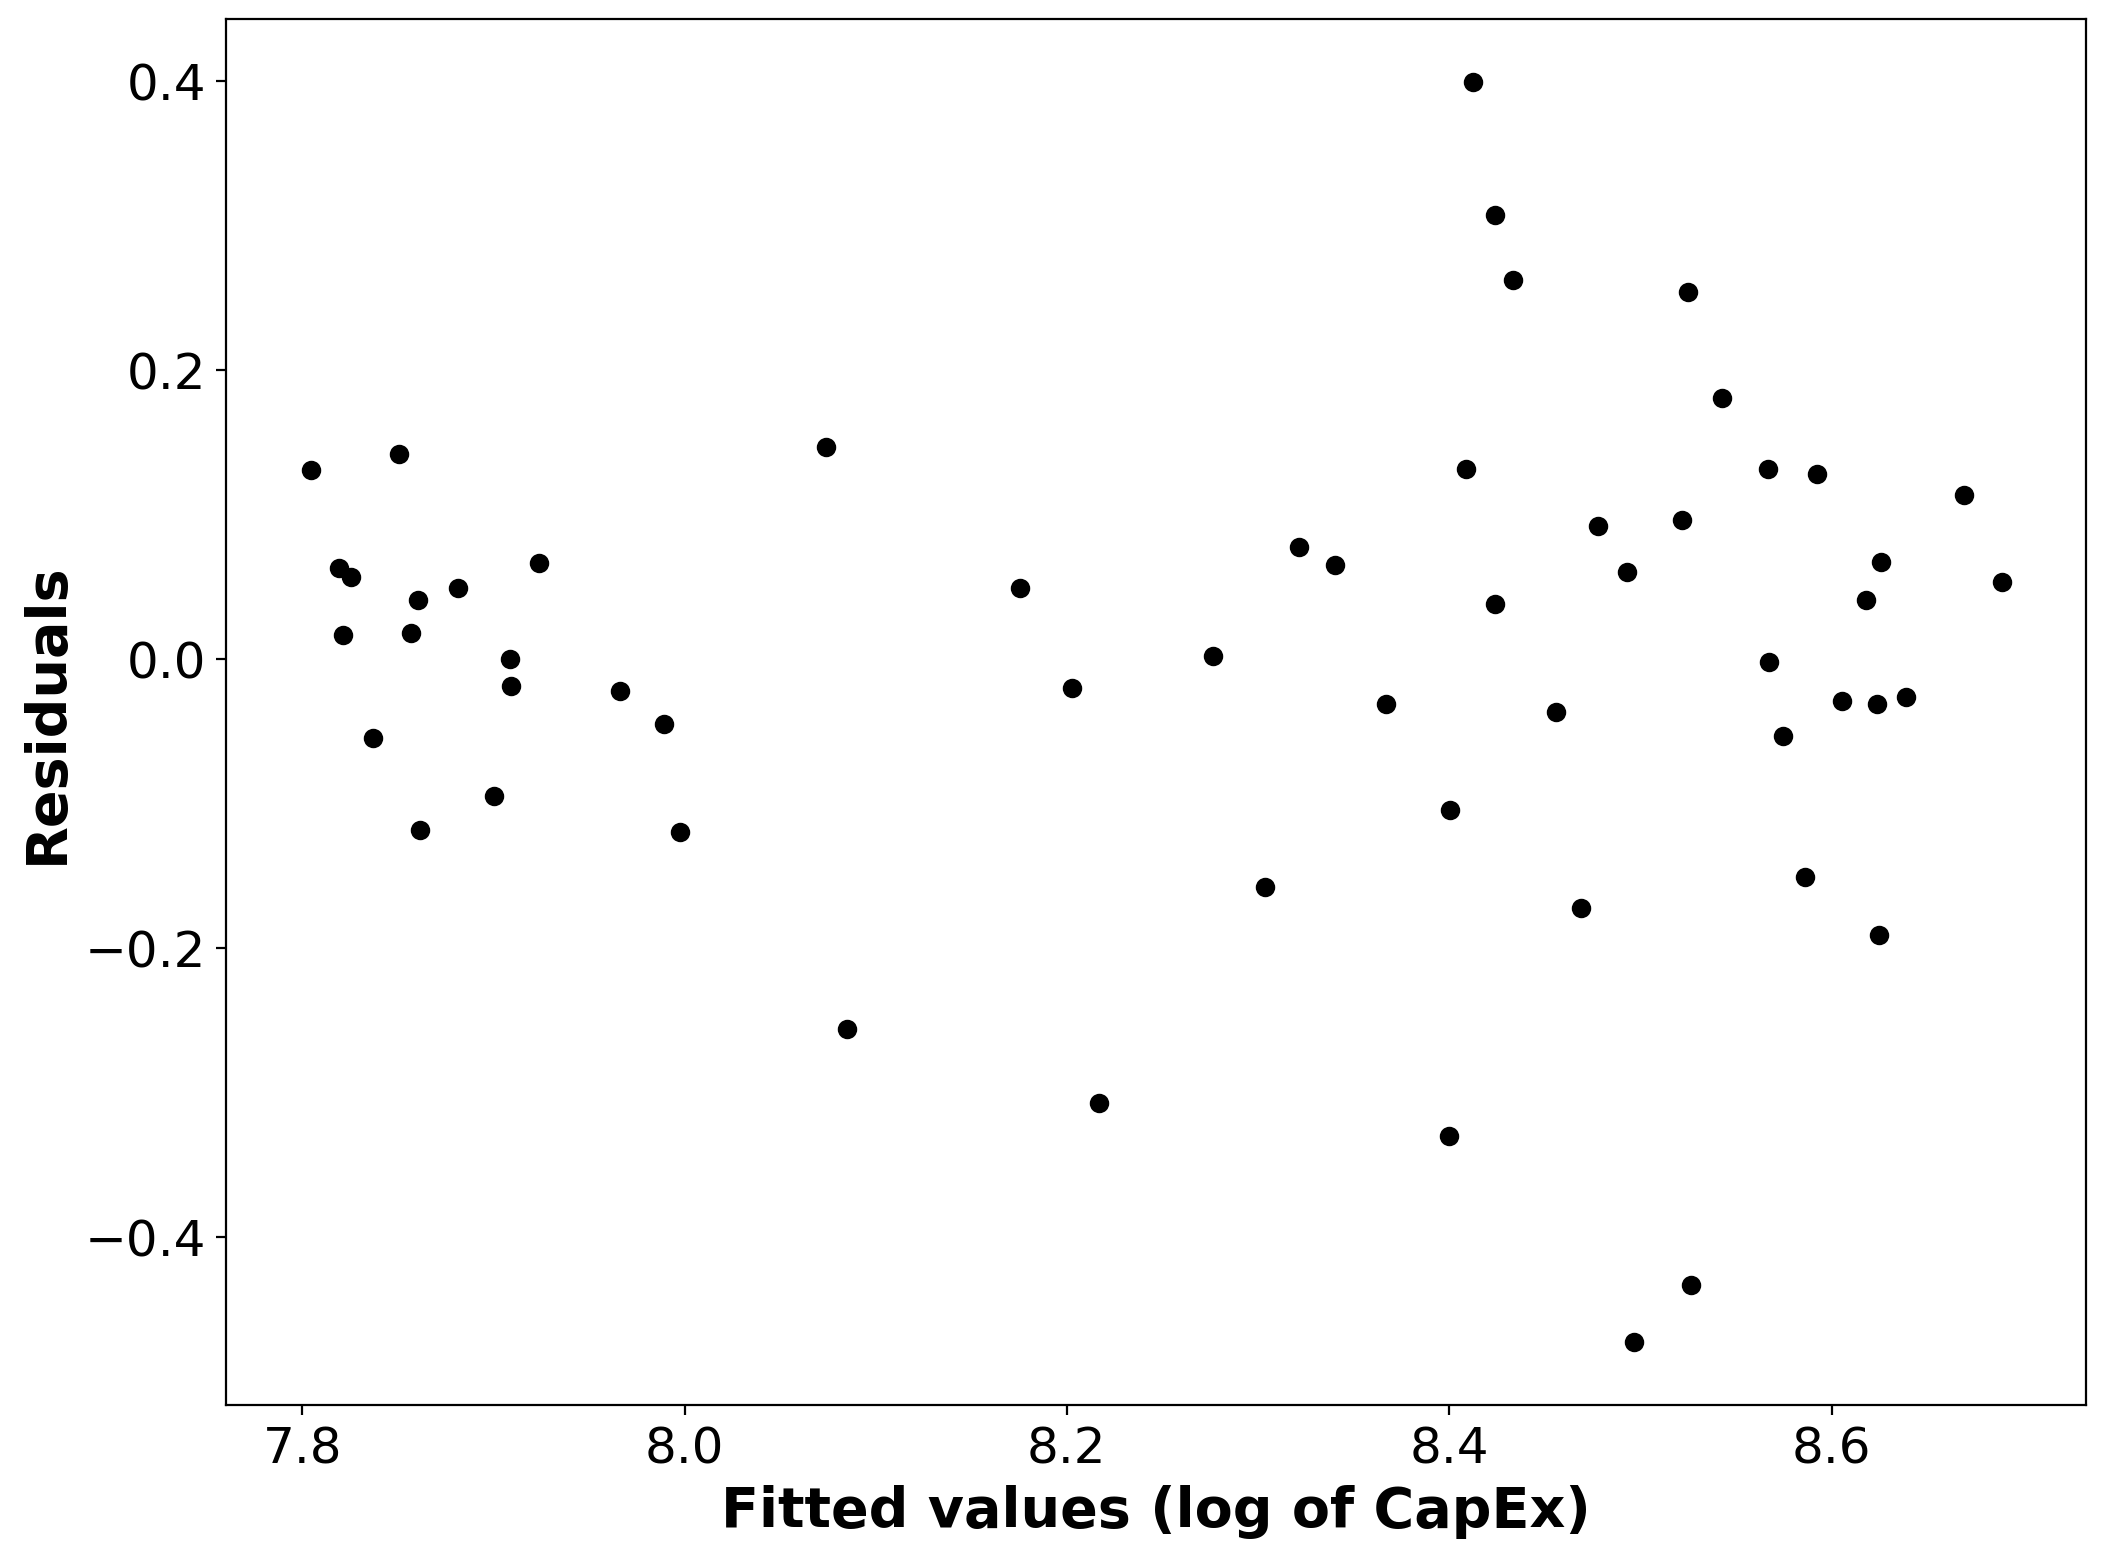
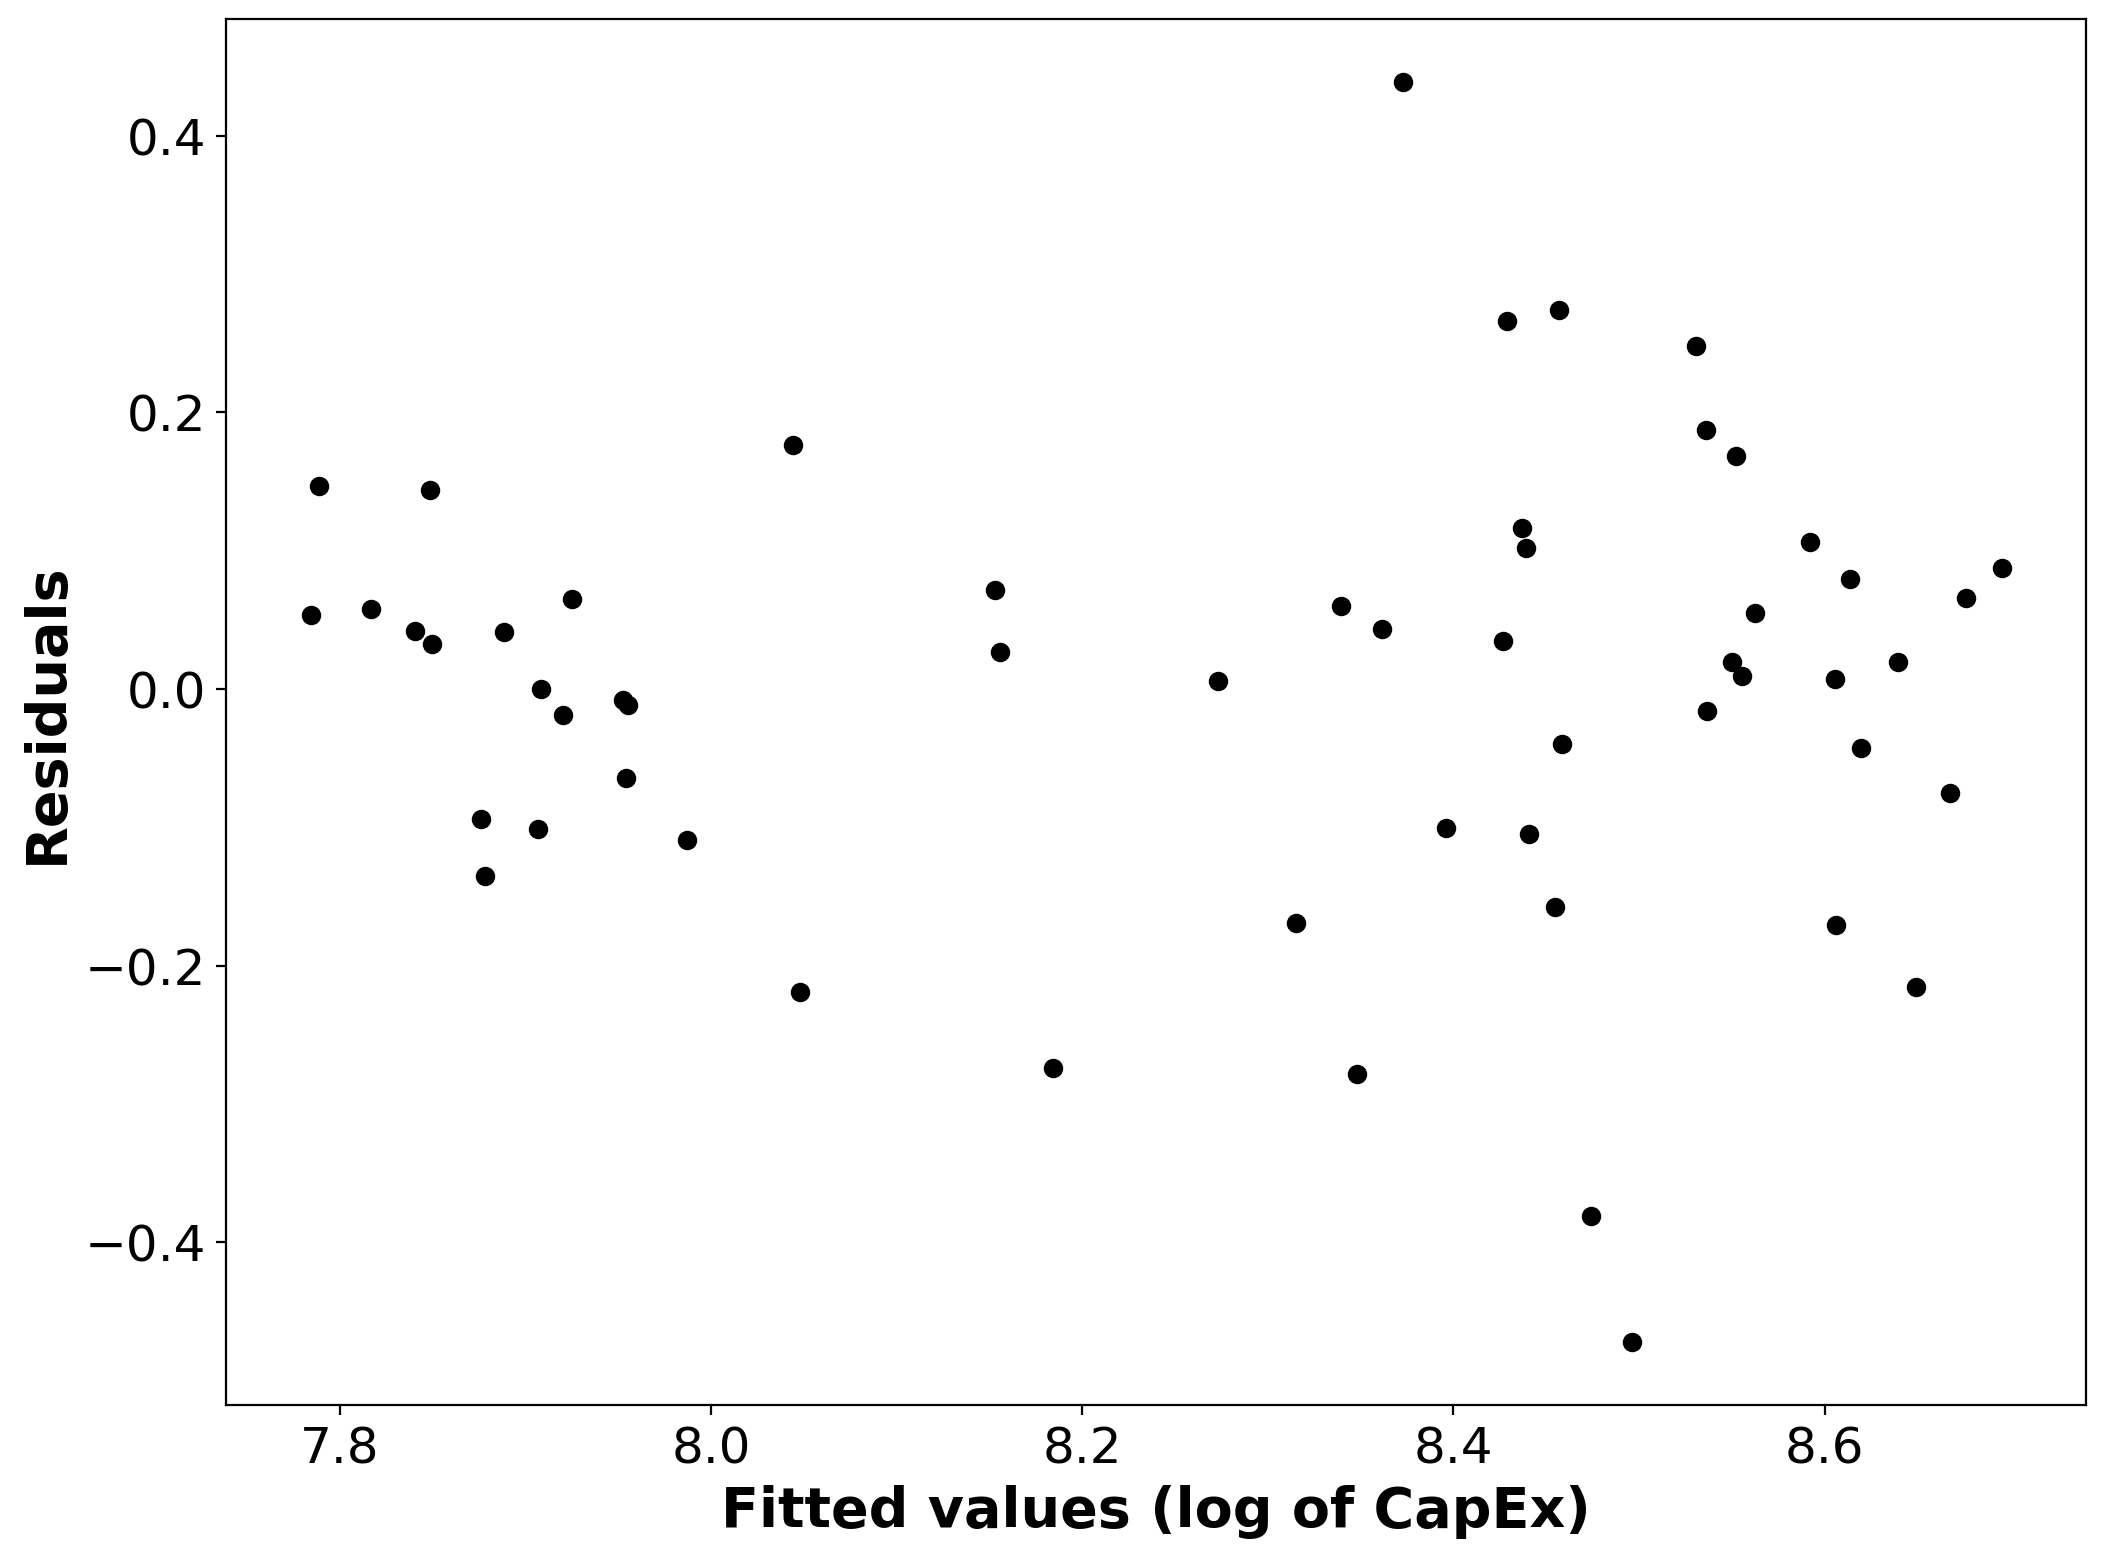
Created alternate waterfall with turbine upsizing shifted to AEP (increase NCF, dont control for turbine size)

diff --git a/analysis/orbit_comparison.py b/analysis/orbit_comparison.py
@@ -65,7 +65,7 @@ FIXED_PREDICTORS = [
 FLOAT_PREDICTORS = [
             'Country Name',
             'Water Depth Max (m)',
-            # 'Turbine MW (Max)',
+            'Turbine MW (Max)',
             # 'Capacity MW (Max)',
             'Distance From Shore Auto (km)',
             ]
@@ -479,7 +479,3 @@ if __name__ == "__main__":
     # Floating
     regression_and_plot(FORECAST_FLOATING, PROJECTS, FILTERS, TO_AGGREGATE, TO_DROP, FLOAT_PREDICTORS, ORBIT_FLOATING_SITES,
                         fixfloat='floating', opex_scale=1, ncf_scale=1)
-
-
-
- 
